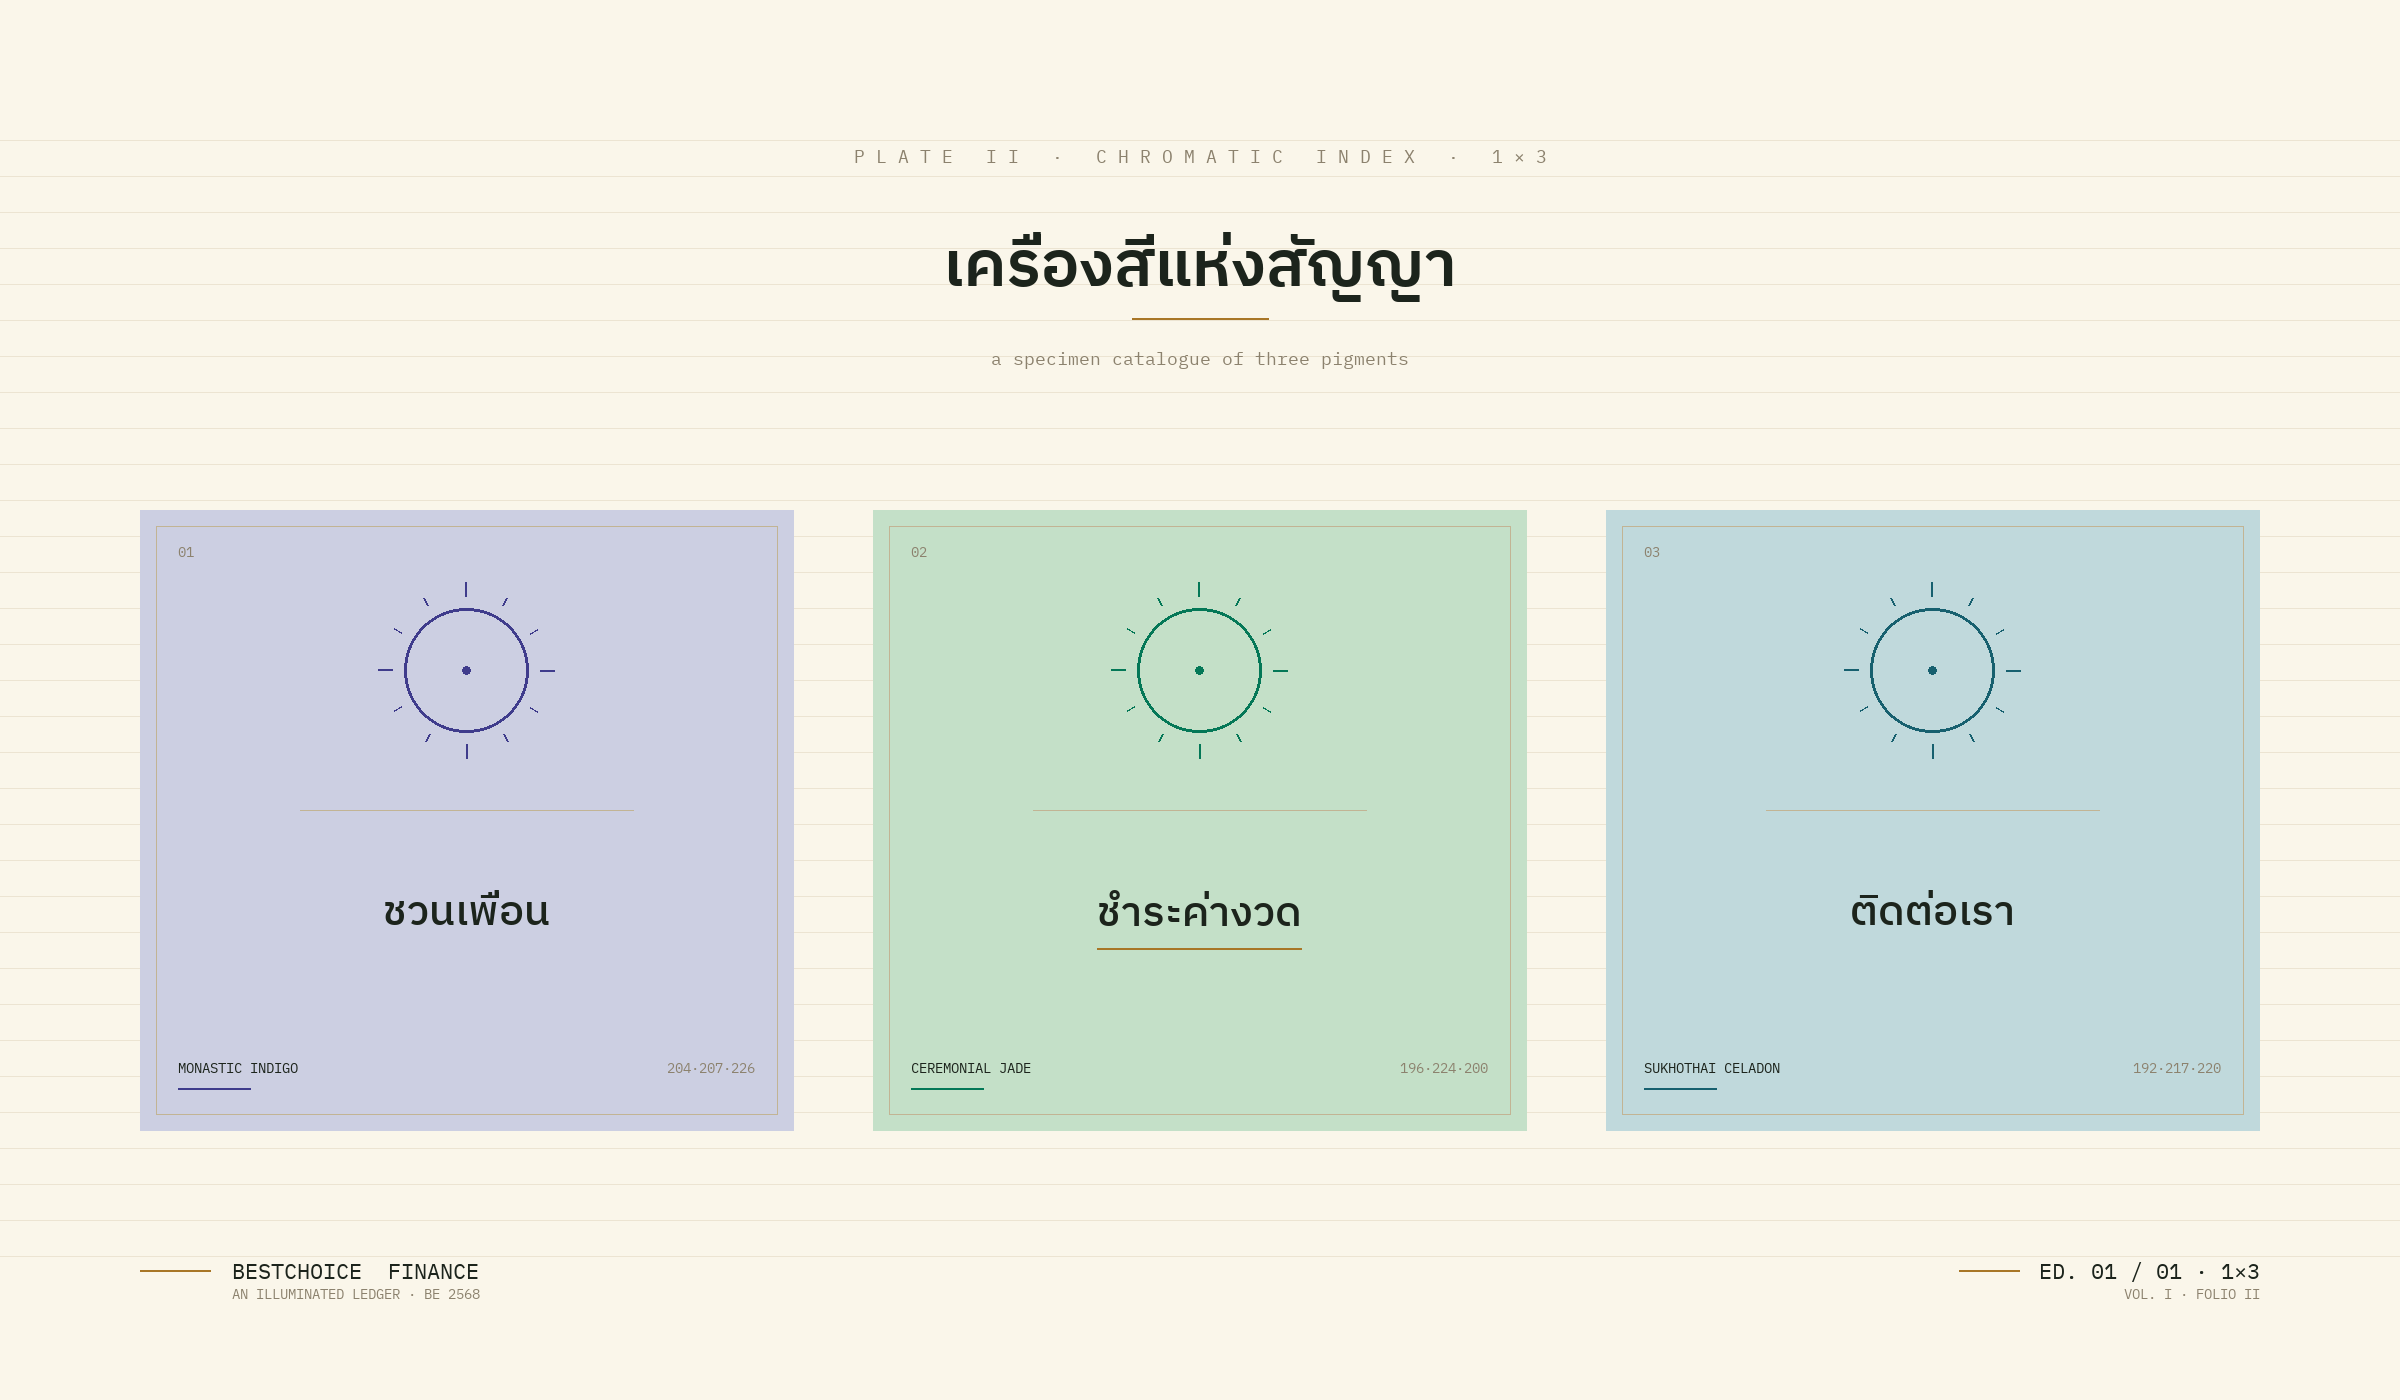
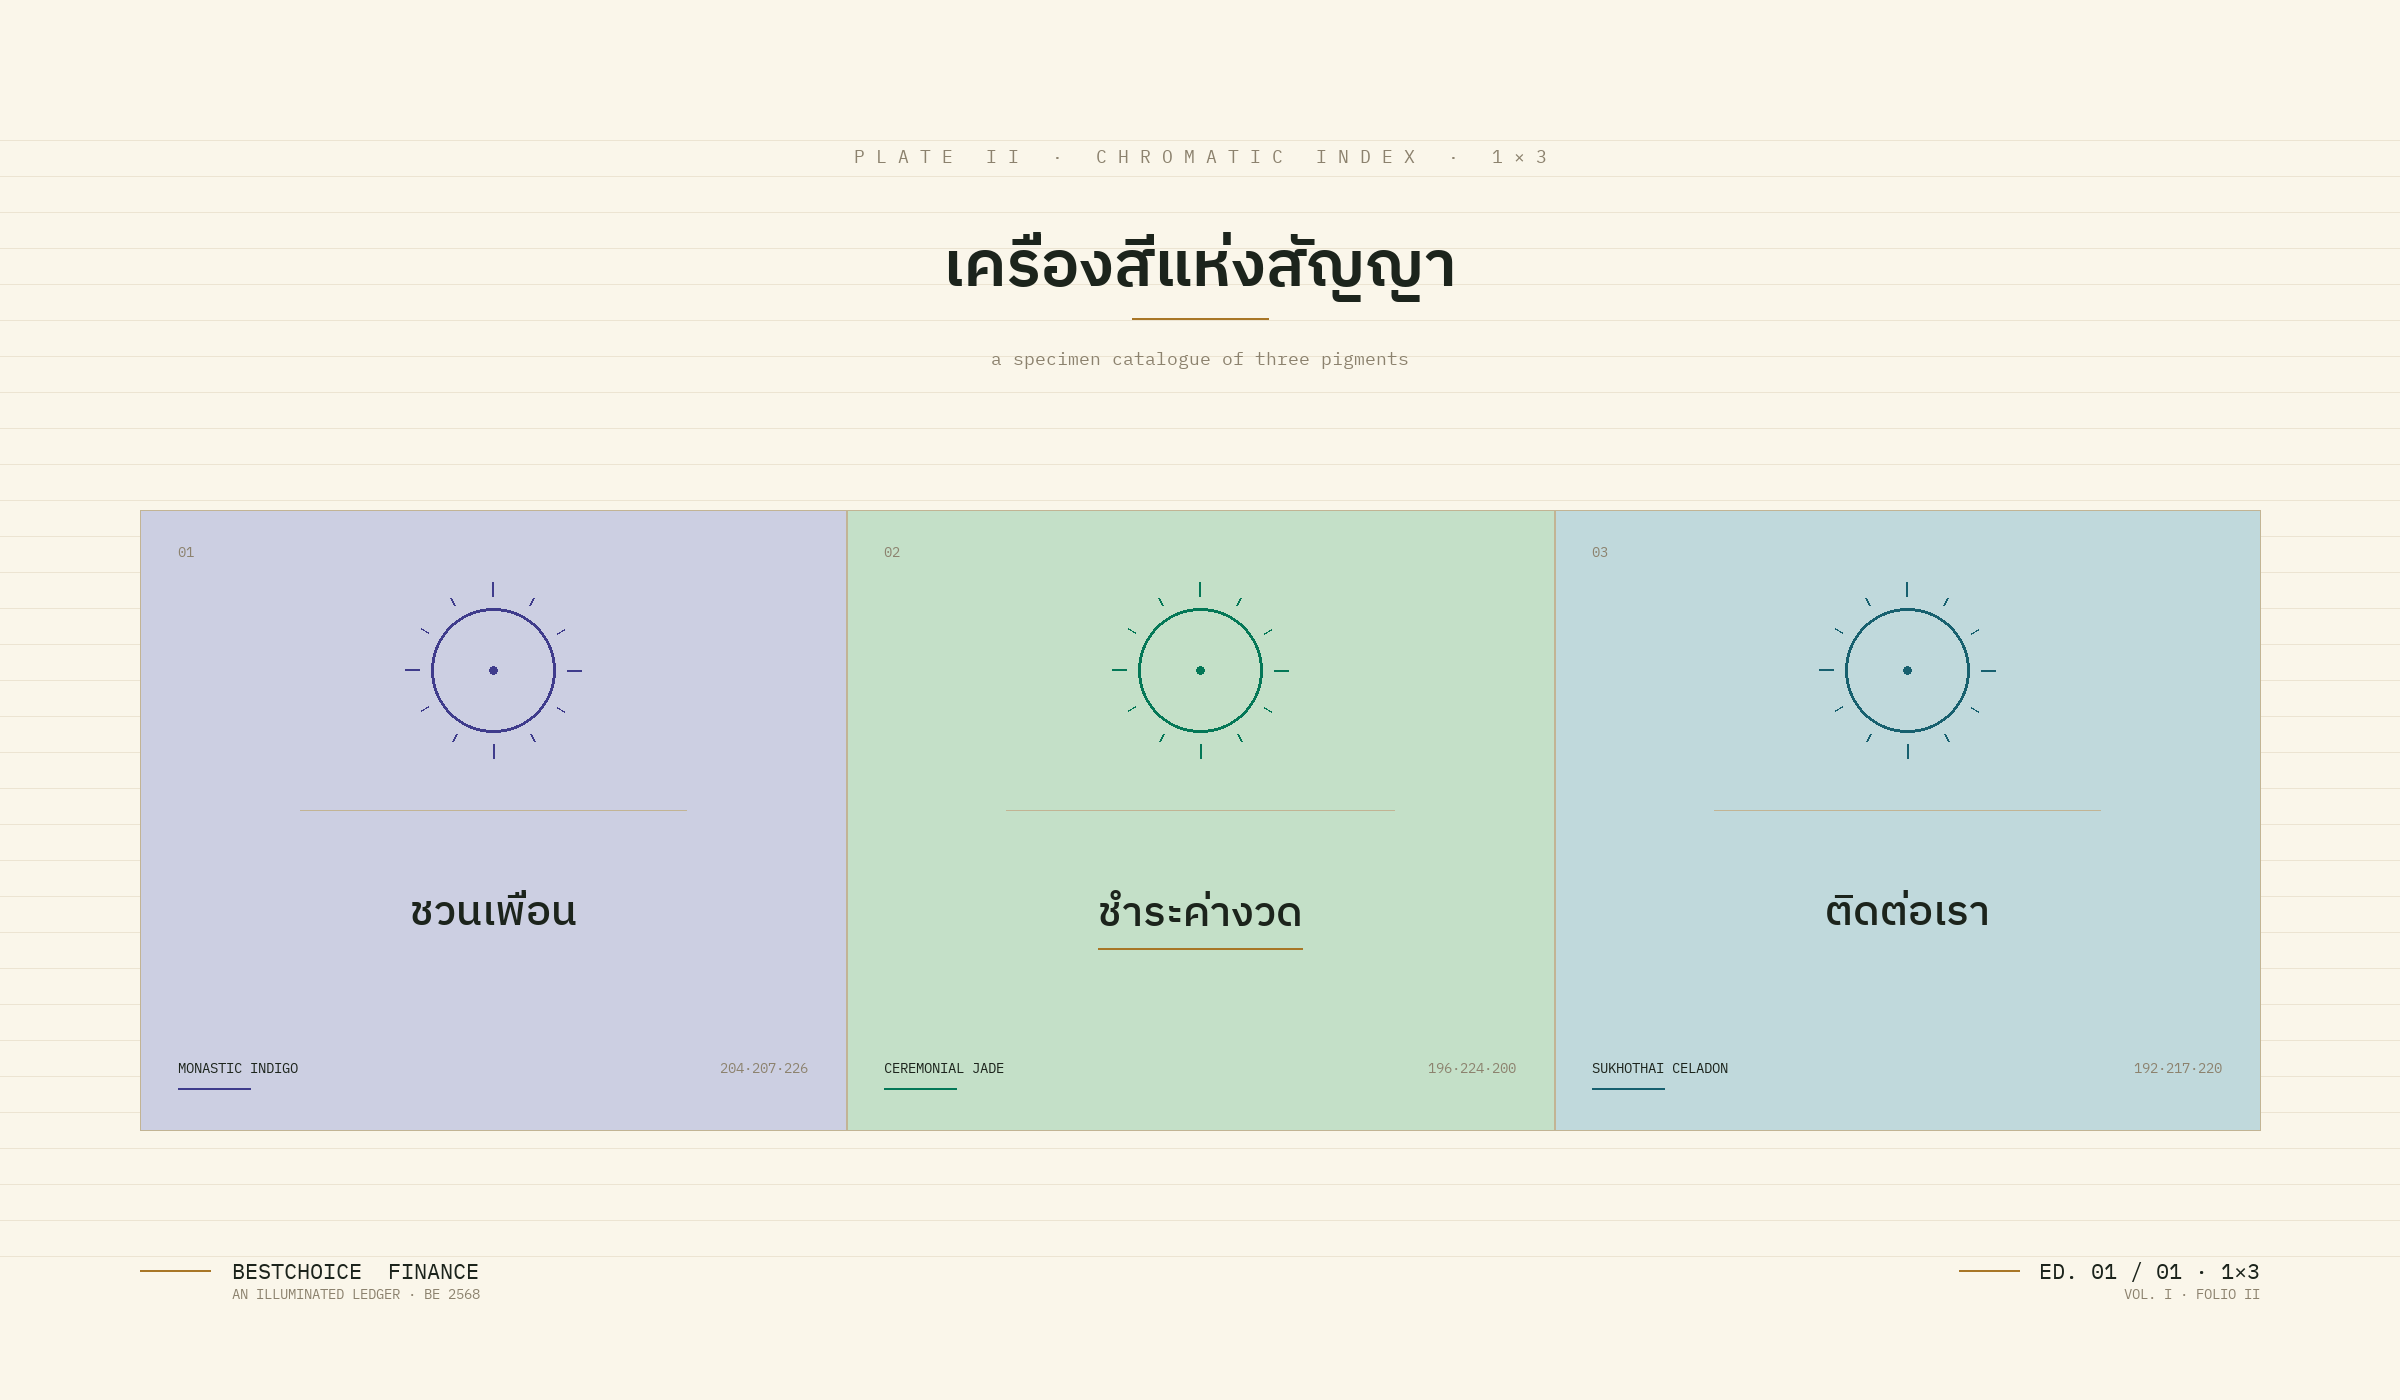
refine(canvas): folio II — tiles abut as a triptych
Replace the 80px inter-tile gap with adjacent walls divided by a single
aged-bone hairline, matching the touching-chamber discipline of the
1×3 rich menu. Inner tile border swapped for one continuous outer
frame around the whole specimen strip — the three pigments now read as
three chambers of one continuous plate, not three separated cards.

- COL_GAP removed; tiles share edges (col 1 carries the 2px remainder)
- 2px vertical HAIRLINE drawn between cols after all specimens
- Single 1px outer frame replaces per-tile inner borders

diff --git a/docs/designs/canvas/generate-folio-3.py b/docs/designs/canvas/generate-folio-3.py
@@ -95,28 +95,38 @@ GRID_TOP = 510
 GRID_LEFT = 140
 GRID_RIGHT = W - 140
 GRID_WIDTH = GRID_RIGHT - GRID_LEFT      # 2120
-COL_GAP = 80
 COLS = 3
-TILE_W = (GRID_WIDTH - COL_GAP * (COLS - 1)) // COLS  # 653
+# Tiles share edges — no inter-column gap; widths parcelled so they sum
+# exactly to GRID_WIDTH (middle column takes any remainder).
+BASE_W = GRID_WIDTH // COLS              # 706
+MID_EXTRA = GRID_WIDTH - BASE_W * COLS   # 2
 TILE_H = 620
 
 
+def tile_x0(col: int) -> int:
+    # col 0: 0, col 1: BASE_W, col 2: BASE_W*2 + MID_EXTRA
+    if col == 0:
+        return GRID_LEFT
+    if col == 1:
+        return GRID_LEFT + BASE_W
+    return GRID_LEFT + BASE_W * 2 + MID_EXTRA
+
+
+def tile_width(col: int) -> int:
+    return BASE_W + MID_EXTRA if col == 1 else BASE_W
+
+
 def draw_specimen(col: int, p: dict):
-    x0 = GRID_LEFT + col * (TILE_W + COL_GAP)
+    x0 = tile_x0(col)
+    TILE_W = tile_width(col)
     y0 = GRID_TOP
     x1 = x0 + TILE_W
     y1 = y0 + TILE_H
 
-    # Wash fill
+    # Pigment wash — edge to edge, no inner border. Tiles touch, hairline
+    # between columns drawn once after all tiles (outside this function).
     draw.rectangle([x0, y0, x1, y1], fill=p["wash"])
-
-    # Inner hairline border
     inset = 16
-    draw.rectangle(
-        [x0 + inset, y0 + inset, x1 - inset, y1 - inset],
-        outline=HAIRLINE,
-        width=1,
-    )
 
     # ─── Icon — 12-tick radial wheel (installment cadence) ─
     icon_cx = x0 + TILE_W // 2
@@ -201,6 +211,18 @@ def draw_specimen(col: int, p: dict):
 
 for i, pigment in enumerate(PIGMENTS):
     draw_specimen(i, pigment)
+
+# Vertical hairline dividers between adjacent tiles (triptych walls)
+for c in range(1, COLS):
+    x = tile_x0(c)
+    draw.line([(x, GRID_TOP), (x, GRID_TOP + TILE_H)], fill=HAIRLINE, width=2)
+
+# Outer frame — single aged-bone hairline around the whole triptych
+draw.rectangle(
+    [GRID_LEFT, GRID_TOP, GRID_LEFT + GRID_WIDTH, GRID_TOP + TILE_H],
+    outline=HAIRLINE,
+    width=1,
+)
 
 
 # ═════════════════════════════════════════════════════════